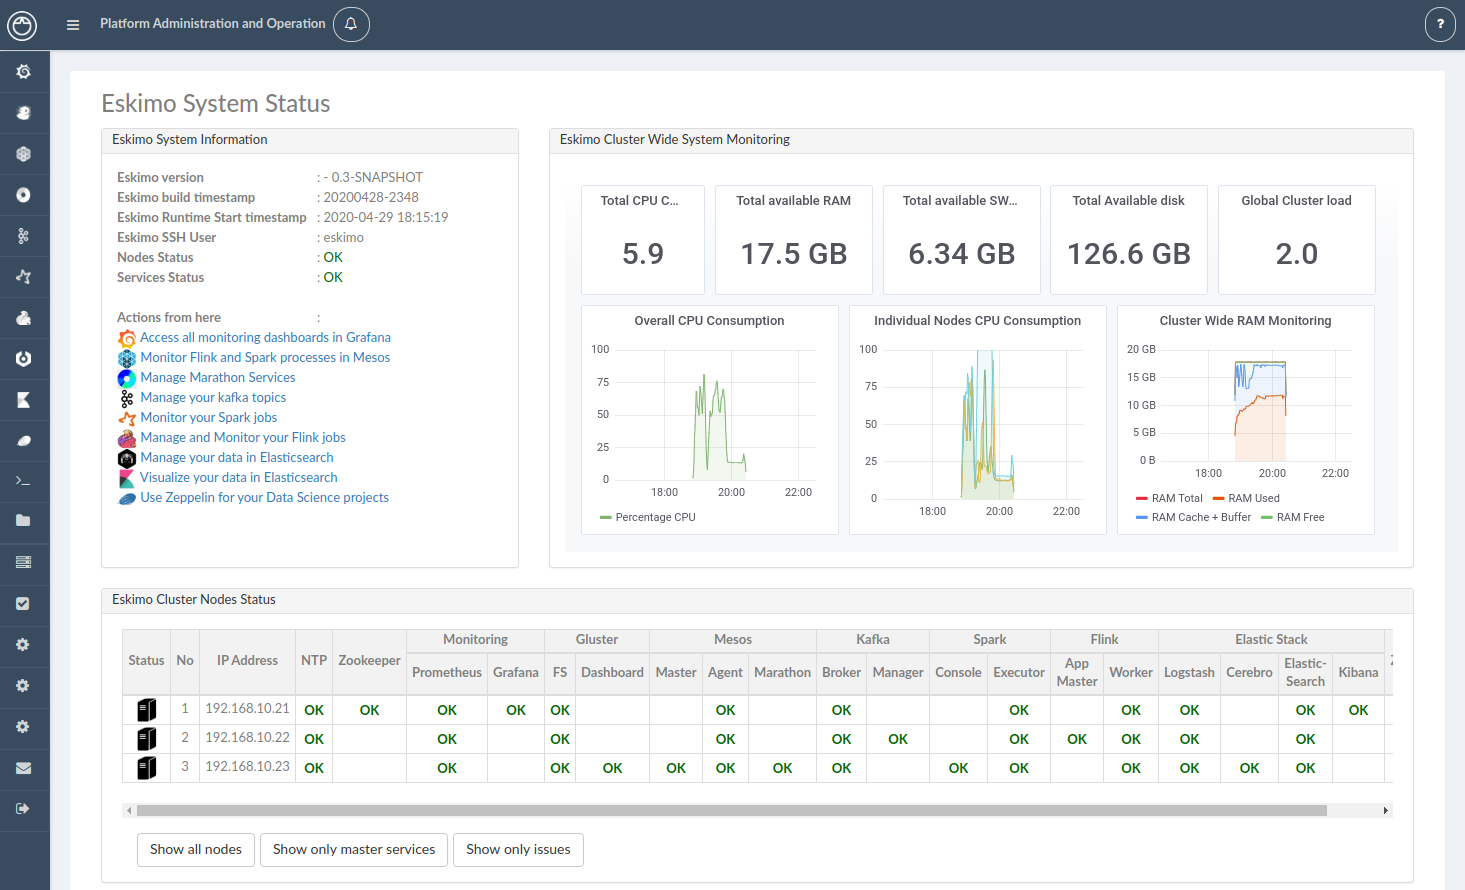
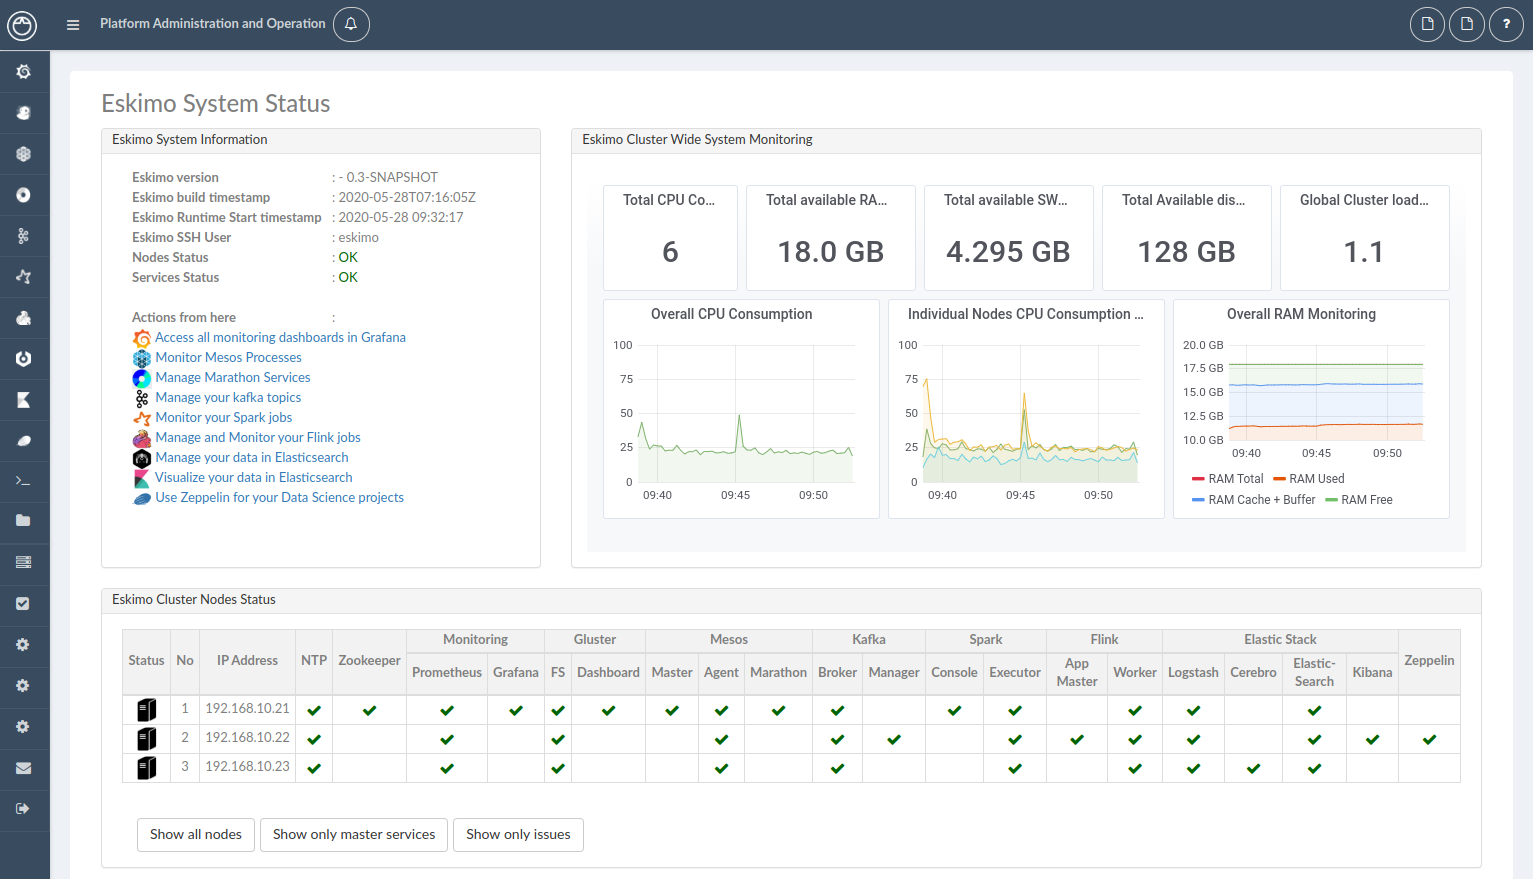
Integrating HTML docs in UI

diff --git a/src/main/webapp/html/eskimoMain.html b/src/main/webapp/html/eskimoMain.html
@@ -52,7 +52,8 @@ Software.
             </li>
 
             <li style="padding-left: 5px;" class="dropdown hoe-rheader-submenu message-notification left-min-30">
-                <a href="#" id="main-show-notifications-link" class="dropdown-toggle icon-circle" data-toggle="dropdown" >
+                <a href="#" id="main-show-notifications-link" class="dropdown-toggle icon-circle" data-toggle="dropdown"
+                   title="Show Notifications">
                     <span class="fa fa-bell-o"></span>
                     <span id="new-notifications-count" class="badge badge-success"></span>
                 </a>
@@ -69,8 +70,23 @@ Software.
 
         <ul class="right-navbar">
             <li class="dropdown hoe-rheader-submenu hidden-xs">
-                <a href="#" id="main-show-about-link" class="dropdown-toggle icon-circle" data-toggle="dropdown">
-                    <span class="fa fa-question"></span>
+                <a href="docs/eskimo-guide.html" id="main-show-user-guide"
+                   target="_blank" class="icon-circle"
+                   title="Show User Guide">
+                    <span class="fa fa-file-o"></span>
+                </a>
+            </li>
+            <li class="dropdown hoe-rheader-submenu hidden-xs">
+                <a href="docs/service-dev-guide.html" id="main-show-service-guide"
+                   target="_blank" class="icon-circle"
+                    title="Show Service Development Guide">
+                    <span class="fa fa-file-o"></span>
+                </a>
+            </li>
+            <li class="dropdown hoe-rheader-submenu hidden-xs">
+                <a href="#" id="main-show-about-link" class="icon-circle"
+                   title="Show Eskimo About Information">
+                    <span class="top-menu-small fa fa-question"></span>
                 </a>
             </li>
         </ul>

diff --git a/src/main/webapp/html/eskimoAbout.html b/src/main/webapp/html/eskimoAbout.html
@@ -52,8 +52,6 @@ Software.
                 <div class="text-center">
                     <a target="_blank" rel="noopener noreferrer" href="https://www.eskimo.sh">www.eskimo.sh</a>
                     <br>
-                    <br>
-                    <a target="_blank" rel="noopener noreferrer" href="https://www.eskimo.sh/documentation.html">Eskimo Online Documentation</a>
                 </div>
                 <div>
                     <p>

diff --git a/src/main/webapp/css/extra.css b/src/main/webapp/css/extra.css
@@ -1384,3 +1384,8 @@ table.system-information tr td.info-label {
 .nav-tabs > li.active > a:focus {
     font-weight: bolder;
 }
+
+.top-menu-small {
+    margin-left: 2px;
+    margin-right: 2px;
+}
